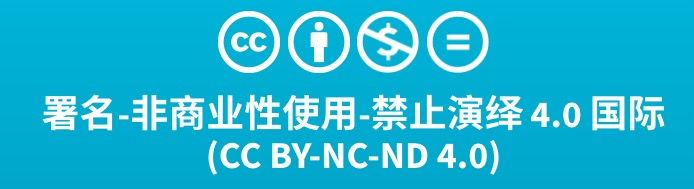
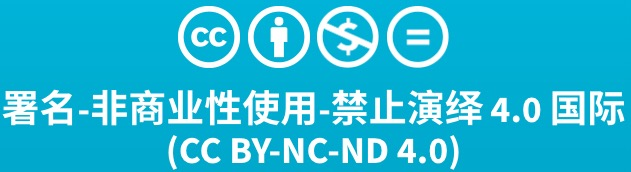
add (CC) license

Changed region(s): [[0.0, 0.4942, 0.9937, 0.9884], [0.271, 0.0291, 0.7227, 0.407]]

diff --git a/_static/media/css/style.css b/_static/media/css/style.css
@@ -4,23 +4,24 @@ html {
 body {
   background-color: white;
   margin: 0 auto;
-  width: 650px; }
-  body #breadcrumbs, body #content, body #footer {
-    background-color: white;
-    clear: both;
-    float: left;
-    overflow: hidden;
-    padding: 0 20px;
-    width: 695px; }
+  width: 632px; }
+
+body #breadcrumbs, body #content, body #footer {
+  background-color: white;
+  clear: both;
+  float: left;
+  overflow: hidden;
+  padding: 0 20px;
+  width: 632px; }
     /* 610px for CC license*/
-  body #breadcrumbs {
-    border-bottom: 2px solid #f6f6f6;
-    height: 28px;
-    margin: 0;
-    /*150108 ZQ for appended logo 32x32*/
-padding: 0 0 0 3em;
-width: 600px; 
-  }
+body #breadcrumbs {
+  border-bottom: 2px solid #f6f6f6;
+  height: 28px;
+  margin: 0;
+  /*150108 ZQ for appended logo 32x32*/
+  padding: 0 0 0 3em;
+  width: 632px; }
+
     body #breadcrumbs li {
       float: left;
       list-style: none;

diff --git a/wiki/license.md b/wiki/license.md
@@ -1,0 +1,23 @@
+# ![](https://i.creativecommons.org/l/by-nc-nd/4.0/88x31.png)
+[Creative Commons Attribution-NonCommercial-NoDerivatives 4.0 International License](http://creativecommons.org/licenses/by-nc-nd/4.0/)
+
+> (CC BY-NC-ND 4.0)
+
+This is a human-readable summary of (and not a substitute for) the license. 
+
+## You are free to:
+
+Share — copy and redistribute the material in any medium or format
+The licensor cannot revoke these freedoms as long as you follow the license terms.
+
+## Under the following terms:
+
+- Attribution — You must give appropriate credit, provide a link to the license, and indicate if changes were made. You may do so in any reasonable manner, but not in any way that suggests the licensor endorses you or your use.
+- NonCommercial — You may not use the material for commercial purposes.
+- NoDerivatives — If you remix, transform, or build upon the material, you may not distribute the modified material.
+- No additional restrictions — You may not apply legal terms or technological measures that legally restrict others from doing anything the license permits.
+
+## Notices:
+You do not have to comply with the license for elements of the material in the public domain or where your use is permitted by an applicable exception or limitation.
+
+No warranties are given. The license may not give you all of the permissions necessary for your intended use. For example, other rights such as publicity, privacy, or moral rights may limit how you use the material.
